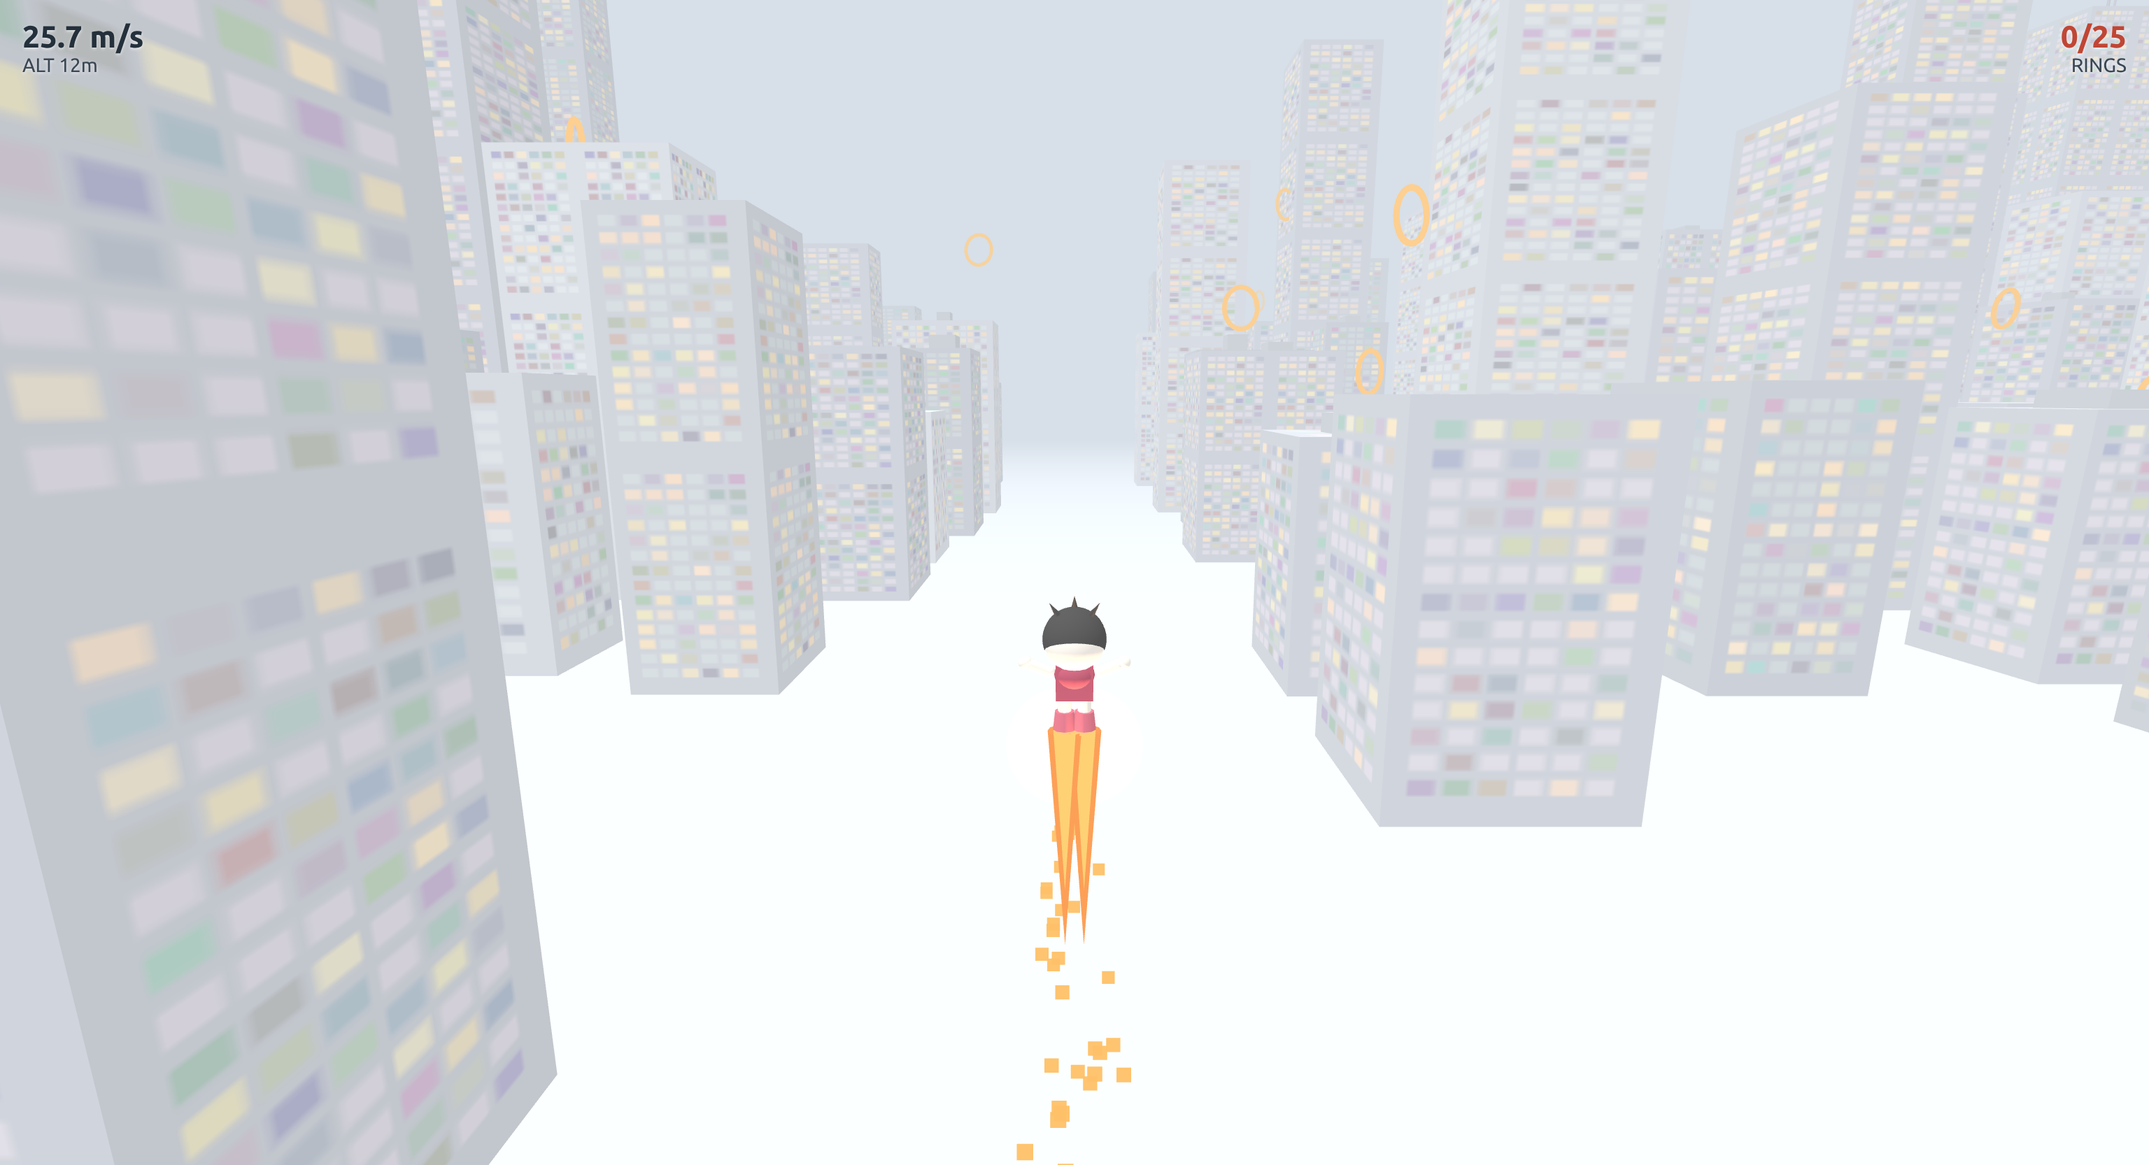
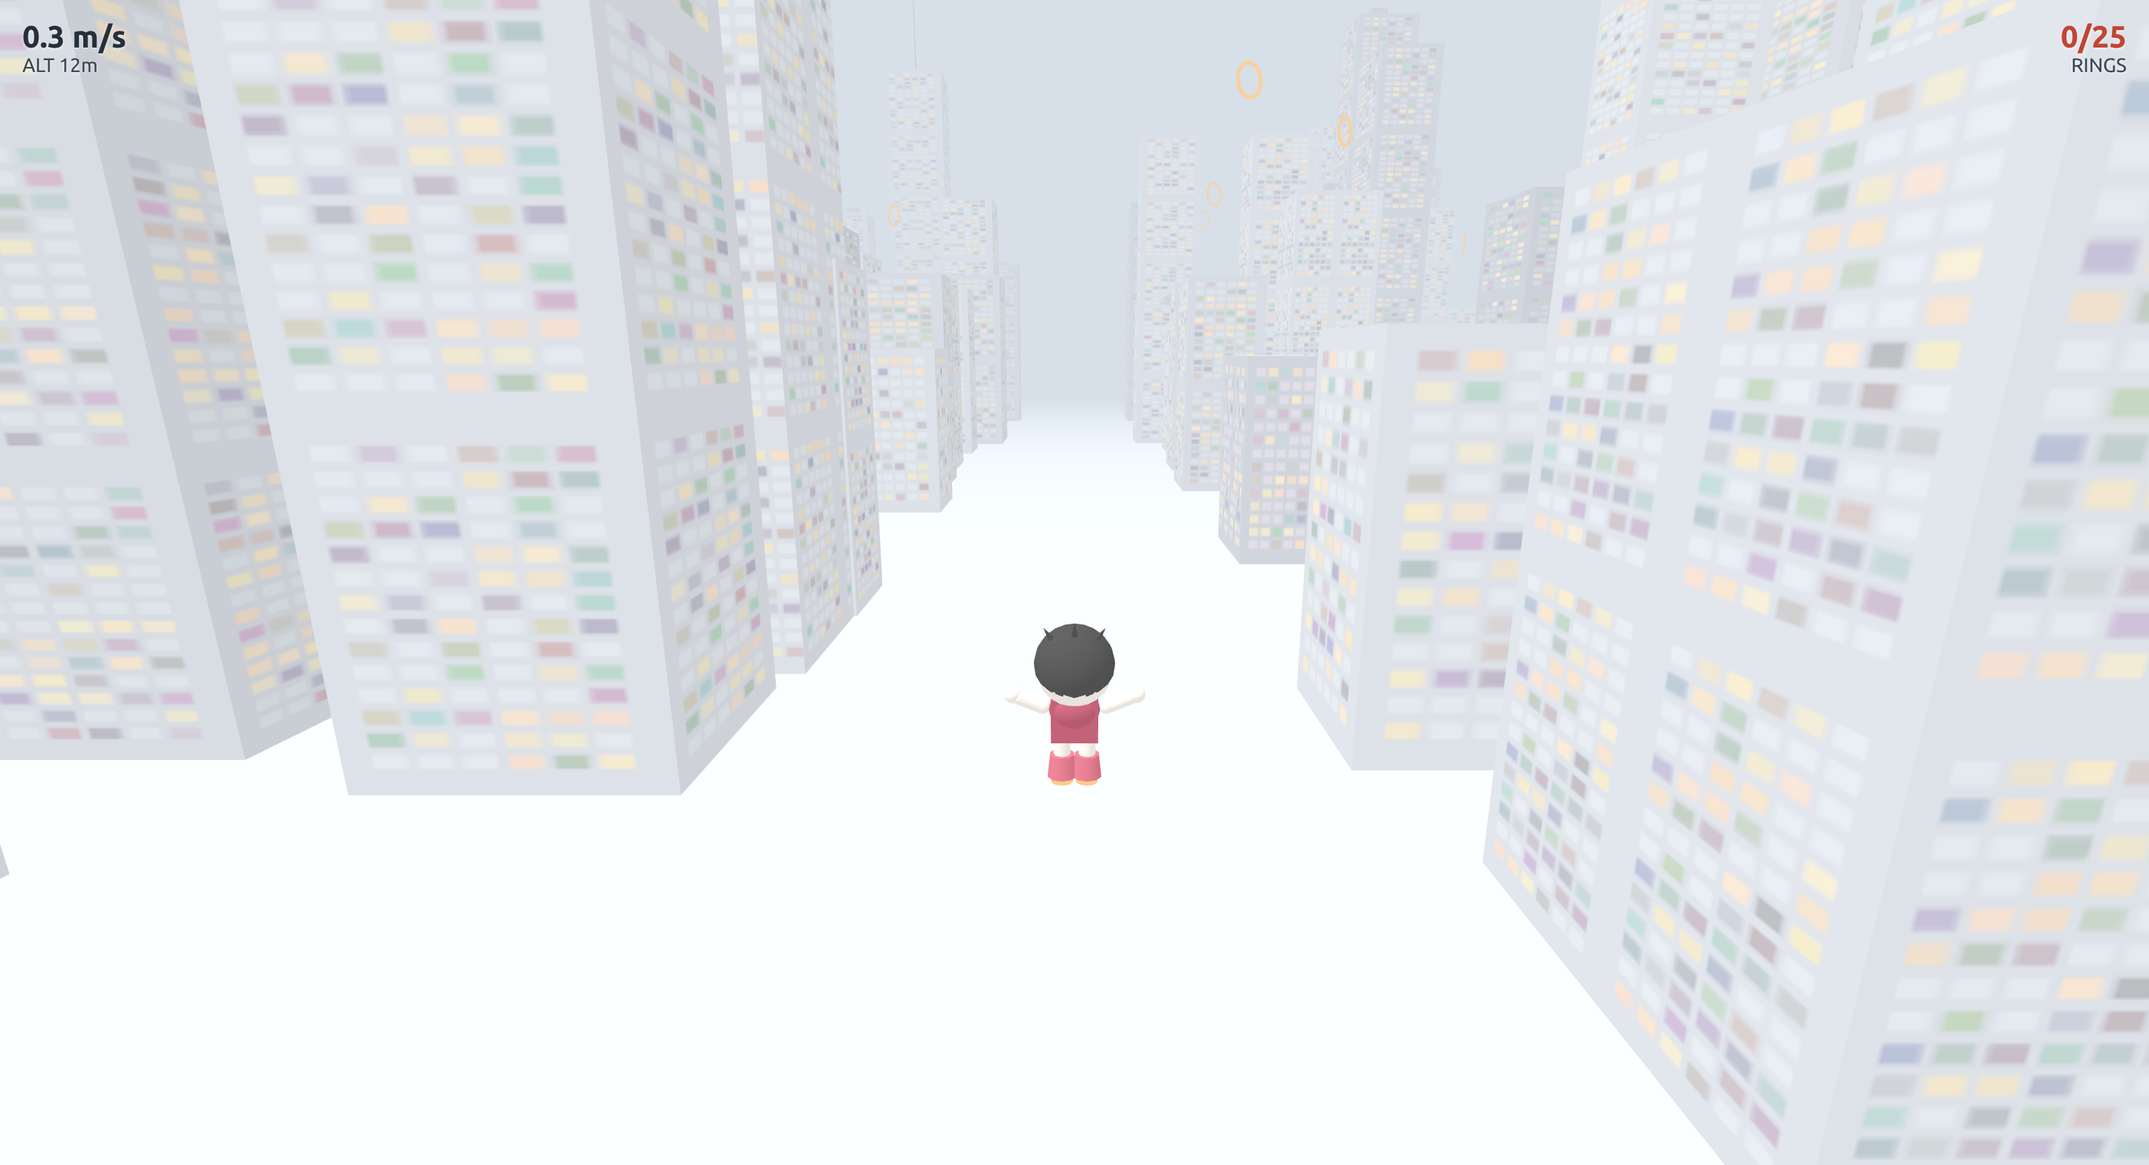
Movement feel: show character's back, velocity-based body lean, speed camera
- Flip character visually: face/eyes point along the nose, hair + spikes
  cover the top/back, so the trailing camera sees his back (geometry fix,
  flight physics untouched)
- New pose.js: forward lean with speed (~15 deg cruise, ~34 deg boost),
  gentle lean-back when reversing, subtle pitch on climb/descent, banking
  unchanged; extracted out of physics.js which now only owns flight state
- Camera: pull-back distance + FOV widen with speed for sense of speed
- New marker.js: FWD/BACK orientation labels, T toggles, off by default
- README: T key, new feel features, 13-module tree; new README
  screenshots from the real trailing camera
- tools: cdp_helper.py gains purge(); add _readme_shots.py README shot tool

diff --git a/js/player.js b/js/player.js
@@ -15,21 +15,29 @@ torso.position.y=0.62; tilt.add(torso);
 const chest=new THREE.Mesh(new THREE.SphereGeometry(0.27,12,10), mat(MAROON));
 chest.position.set(0,0.72,0.05); chest.scale.set(1.05,0.8,0.8); tilt.add(chest);
 
-// head
+// head — the face (eyes/mouth) points along the nose (local -Z, the travel
+// direction), so the trailing chase camera (behind/above, +Z) reads the
+// character's hair and spikes, while the face looks out into the screen.
 const head=new THREE.Group(); head.position.y=1.18; tilt.add(head);
 const face=new THREE.Mesh(new THREE.SphereGeometry(0.42,20,16), mat(CREAM)); head.add(face);
-// hair dome (back/top)
-const hair=new THREE.Mesh(new THREE.SphereGeometry(0.445,20,14,0,Math.PI*2,0,Math.PI*0.62), mat(BLACK));
-hair.rotation.x=-0.5; hair.position.y=0.04; head.add(hair);
-// signature spikes — big, pointing up/back (read from behind)
+// hair — covers the TOP + BACK of the head so the back reads as a dark hair
+// dome (not a face!) from the trailing camera, leaving the face open on the
+// front (-Z). Tilted toward the back (+Z); cap reaches ~125° down the back,
+// hairline crosses the front at ~60° (eyes at ~87° stay clear).
+const hair=new THREE.Mesh(new THREE.SphereGeometry(0.445,20,14,0,Math.PI*2,0,Math.PI*0.52), mat(BLACK));
+hair.rotation.x=0.55; hair.position.y=0.05; head.add(hair);
+// signature spikes — on the BACK-top of the head, pointing up/back (read from behind)
 const spikeGeo=new THREE.ConeGeometry(0.115,0.55,8);
-const s1=new THREE.Mesh(spikeGeo,mat(BLACK)); s1.position.set(0,0.42,-0.08); s1.rotation.x=0.5; head.add(s1);
-const s2=new THREE.Mesh(spikeGeo,mat(BLACK)); s2.position.set(0.2,0.36,0.08); s2.rotation.set(0.3,0,-0.55); head.add(s2);
-const s3=new THREE.Mesh(spikeGeo,mat(BLACK)); s3.position.set(-0.2,0.36,0.08); s3.rotation.set(0.3,0,0.55); head.add(s3);
+const s1=new THREE.Mesh(spikeGeo,mat(BLACK)); s1.position.set(0,0.36,0.16); s1.rotation.x=0.5; head.add(s1);
+const s2=new THREE.Mesh(spikeGeo,mat(BLACK)); s2.position.set(0.2,0.30,0.10); s2.rotation.set(0.4,0,-0.5); head.add(s2);
+const s3=new THREE.Mesh(spikeGeo,mat(BLACK)); s3.position.set(-0.2,0.30,0.10); s3.rotation.set(0.4,0,0.5); head.add(s3);
 // eyes
 const eyeGeo=new THREE.SphereGeometry(0.055,10,8);
 const e1=new THREE.Mesh(eyeGeo,mat(BLACK)); e1.position.set(0.15,0.02,-0.37); head.add(e1);
 const e2=new THREE.Mesh(eyeGeo,mat(BLACK)); e2.position.set(-0.15,0.02,-0.37); head.add(e2);
+// mouth — small dark line so the face side is unmistakable
+const mouth=new THREE.Mesh(new THREE.BoxGeometry(0.14,0.035,0.02), mat(BLACK));
+mouth.position.set(0,-0.13,-0.40); head.add(mouth);
 
 // arms — spread for flight
 function arm(side){

diff --git a/js/camera.js b/js/camera.js
@@ -3,11 +3,12 @@
 // camera.js — trailing chase camera.
 //
 // Sits BEHIND the ship along its heading and looks a little ahead of it, so
-// the ship always faces AWAY from the camera. Pressing W flies you "into" the
-// screen (forward), matching the reference third-person feel. The camera
-// heading lags slightly behind the ship's yaw so it trails on hard turns, and
-// the position is smoothed so it follows rather than snapping. Buildings
-// still get respected via collideCamera.
+// pressing W flies "into" the screen (forward, along the nose), matching the
+// reference third-person feel. The camera heading lags slightly behind the
+// ship's yaw so it trails on hard turns, and the position is smoothed so it
+// follows rather than snapping. With speed, the camera pulls back a little
+// and the FOV widens slightly for a sense of speed. Buildings are still
+// respected via collideCamera.
 // ---------------------------------------------------------------------------
 
 const _camPos  = new THREE.Vector3();
@@ -15,17 +16,21 @@ const _camLook = new THREE.Vector3();
 let camHeading = 0;   // smoothed heading the camera follows (lags behind yaw)
 
 function updateCamera(dt, p){
+  const s = vel.length();
+
   // camera trails the ship's heading (a little lag on turns)
   camHeading = lerpAngle(camHeading, yaw, 1 - Math.pow(CAM_HEADING_LAG, dt));
 
-  const c = Math.cos(camPitch), s = Math.sin(camPitch);
+  // pull back a bit at speed so the character stays framed
+  const dist = camDist + Math.min(CAM_SPEED_DZ_MAX, s*CAM_SPEED_DZ);
+  const c = Math.cos(camPitch), sinP = Math.sin(camPitch);
 
   // position: BEHIND the ship (opposite of its nose) + above
   // nose = (-sin(yaw), -cos(yaw))  =>  behind = (+sin, +cos)
   _camPos.set(
-    p.x + Math.sin(camHeading)*c*camDist,
-    p.y + s*camDist + CAM_LOOK_UP,
-    p.z + Math.cos(camHeading)*c*camDist
+    p.x + Math.sin(camHeading)*c*dist,
+    p.y + sinP*dist + CAM_LOOK_UP,
+    p.z + Math.cos(camHeading)*c*dist
   );
   collideCamera(_camPos);
 
@@ -39,4 +44,11 @@ function updateCamera(dt, p){
 
   camera.position.lerp(_camPos, 1 - Math.pow(CAM_FOLLOW, dt));
   camera.lookAt(_camLook);
+
+  // subtle speed-warp: widen the FOV with speed, smoothed
+  const targetFov = Math.min(CAM_FOV_MAX, CAM_FOV_BASE + s*CAM_FOV_SPEED);
+  if(Math.abs(camera.fov - targetFov) > 0.01){
+    camera.fov = THREE.MathUtils.lerp(camera.fov, targetFov, 0.08);
+    camera.updateProjectionMatrix();
+  }
 }

diff --git a/js/pose.js b/js/pose.js
@@ -1,0 +1,39 @@
+'use strict';
+// ---------------------------------------------------------------------------
+// pose.js — the character's per-frame flight pose (pitch + roll), derived from
+// the flight state so the body reads the way it's actually moving:
+//
+//   • leans forward (nose-down) in proportion to forward speed — extra when
+//     boosting (the reference shows a ~20–35° dive at full burn)
+//   • gentle lean-back when flying backwards (S)
+//   • subtle nose-up / nose-down while ascending / descending
+//   • banks into turns (roll), matching the existing feel
+//
+// Purely cosmetic: it only writes to `tilt.rotation` — never to `vel` or
+// `yaw` — so it cannot change the movement.
+// ---------------------------------------------------------------------------
+
+function applyPose(dt, f){
+  const fwd = -Math.sin(yaw)*vel.x - Math.cos(yaw)*vel.z; // + = forward along nose
+
+  // forward lean, scaled by forward speed; boost multiplies it.
+  // clamp so a full reverse reads as a moderate lean-back, not a flip.
+  const fr = Math.max(-0.8, Math.min(1, fwd / MAX_SPEED_CRUISE));
+  const lean = (f.boost ? BOOST_LEAN : LEAN) * fr;
+
+  // vertical tilt from vertical velocity (subtle, clamped)
+  const vPitch = Math.max(-0.45, Math.min(0.6, vel.y*0.035));
+
+  // forward speed -> nose DOWN (-rotation.x); climbing -> nose UP (+rotation.x)
+  const targetPitch = -lean + vPitch;
+
+  // bank into the turn — keep the EXACT sign/amount the approved build had
+  // (A = roll one way, D = the other; magnitude 0.55)
+  const turn = (keys['KeyA']?1:0) + (keys['KeyD']?-1:0);
+  const targetRoll = turn * -0.55;
+
+  // frame-rate-independent smoothing (~10% per frame at 60 fps)
+  const t = 1 - Math.pow(0.001, dt);
+  tilt.rotation.x = THREE.MathUtils.lerp(tilt.rotation.x, targetPitch, t);
+  tilt.rotation.z = THREE.MathUtils.lerp(tilt.rotation.z, targetRoll, t);
+}

diff --git a/js/marker.js b/js/marker.js
@@ -1,0 +1,37 @@
+'use strict';
+// ---------------------------------------------------------------------------
+// marker.js — floating "FWD" / "BACK" labels so it's obvious which way the
+// character is facing (and which way is travel direction). Toggle with T.
+// Both labels are camera-facing sprites flanking the head: FWD ahead of the
+// face (nose side, -Z), BACK behind it (+Z, the chase-cam side).
+// ---------------------------------------------------------------------------
+
+function makeMarker(text){
+  const c = document.createElement('canvas'); c.width = 256; c.height = 128;
+  const g = c.getContext('2d');
+  g.font = 'bold 72px "Segoe UI", system-ui, sans-serif';
+  g.textAlign = 'center'; g.textBaseline = 'middle';
+  g.lineWidth = 14; g.strokeStyle = 'rgba(24,32,42,0.9)';
+  g.strokeText(text, 128, 64);
+  g.fillStyle = '#ffffff';
+  g.fillText(text, 128, 64);
+  const sp = new THREE.Sprite(new THREE.SpriteMaterial({
+    map: new THREE.CanvasTexture(c), transparent: true, opacity: 0.95, depthWrite: false }));
+  sp.scale.set(1.1, 0.55, 1);
+  return sp;
+}
+
+const fwdMarker  = makeMarker('FWD');
+fwdMarker.position.set(0, 2.0, -0.85);   // ahead of the face (nose side)
+const backMarker = makeMarker('BACK');
+backMarker.position.set(0, 2.0, 0.85);   // behind the head (camera side)
+tilt.add(fwdMarker); tilt.add(backMarker);
+
+let markersOn = false;   // dev aid — off by default, T toggles
+let _prevT = false;
+function updateMarkers(){
+  const down = !!keys['KeyT'];
+  if(down && !_prevT) markersOn = !markersOn;   // toggle on T key-down
+  _prevT = down;
+  fwdMarker.visible = backMarker.visible = markersOn;
+}

diff --git a/js/physics.js b/js/physics.js
@@ -76,10 +76,8 @@ function updateFlight(dt, keys){
   vel.z += hz*az*accel*dt;
   vel.y += ay * VERT * (boost?1.6:1) * dt;
 
-  // yaw turn + bank into the turn
+  // yaw turn (bank + forward-lean pose live in pose.js)
   yaw += turn * (boost?2.6:2.0) * dt;
-  const targetRoll = turn * -0.55; // D = right bank
-  tilt.rotation.z = THREE.MathUtils.lerp(tilt.rotation.z, targetRoll, 0.1);
 
   // drag + speed cap
   vel.multiplyScalar(Math.pow(DRAG_BASE, dt));
@@ -94,10 +92,10 @@ function updateFlight(dt, keys){
   astro.position.y = Math.max(WORLD_Y_MIN, Math.min(WORLD_Y_MAX, astro.position.y));
   collide(astro.position);
 
-  // orient: nose is authoritative; slight pitch from vertical speed
+  // orient: nose is authoritative; body pitch / bank pose in pose.js
   astro.rotation.y = yaw;
-  tilt.rotation.x = THREE.MathUtils.lerp(tilt.rotation.x,
-    Math.max(-0.45, Math.min(0.6, vel.y*0.035)), 0.12);
+  const sp = vel.length();
+  applyPose(dt, { thrust, speed: sp, boost });
 
-  return { thrust, speed: vel.length(), boost };
+  return { thrust, speed: sp, boost };
 }

diff --git a/js/config.js b/js/config.js
@@ -47,6 +47,15 @@ const CAM_LOOK_AHEAD_H = 3.0;      // look-at point ahead along heading
 const CAM_LOOK_UP_TGT  = 1.4;      // look-at height above player
 const CAM_FOLLOW       = 0.0006;   // camera position lerp base (1 - base^dt)
 const CAM_HEADING_LAG  = 0.014;    // camera heading lerp base (trail behind yaw)
+const CAM_SPEED_DZ     = 0.10;     // extra camera distance per m/s (pull back at speed)
+const CAM_SPEED_DZ_MAX = 6;        // cap on that extra distance
+const CAM_FOV_BASE     = 65;       // base field of view
+const CAM_FOV_SPEED    = 0.35;     // extra degrees per m/s (sense of speed)
+const CAM_FOV_MAX      = 82;       // cap on the widened fov
+
+// ---- body pose (lean) ----
+const LEAN       = 0.34;   // forward pitch at full cruise speed (rad, ≈19°)
+const BOOST_LEAN = 0.60;   // forward pitch at full cruise speed while boosting (≈34°)
 
 // ---- effects ----
 const SPARKS = 70;                 // spark-trail particle pool

diff --git a/index.html b/index.html
@@ -39,6 +39,7 @@
     <b>A / D</b><span>turn left / right (banks)</span>
     <b>R / F</b><span>ascend / descend</span>
     <b>SHIFT</b><span>boost</span>
+    <b>T</b><span>toggle FWD / BACK markers</span>
     <b>MOUSE</b><span>steer / look up &amp; down</span>
     <b>ESC</b><span>release mouse</span>
   </div>
@@ -49,6 +50,8 @@
 <script src="js/scene.js"></script>
 <script src="js/city.js"></script>
 <script src="js/player.js"></script>
+<script src="js/pose.js"></script>
+<script src="js/marker.js"></script>
 <script src="js/physics.js"></script>
 <script src="js/effects.js"></script>
 <script src="js/rings.js"></script>

diff --git a/js/scene.js b/js/scene.js
@@ -15,7 +15,7 @@ const scene = new THREE.Scene();
 scene.background = new THREE.Color(FOGCOL);
 scene.fog = new THREE.Fog(FOGCOL, FOG_NEAR, FOG_FAR);
 
-const camera = new THREE.PerspectiveCamera(65, innerWidth / innerHeight, 0.1, 900);
+const camera = new THREE.PerspectiveCamera(CAM_FOV_BASE, innerWidth / innerHeight, 0.1, 900);
 
 scene.add(new THREE.AmbientLight(0xffffff, 0.85));
 const sun = new THREE.DirectionalLight(0xffffff, 0.55);

diff --git a/js/main.js b/js/main.js
@@ -15,9 +15,10 @@ function animate(){
   // flight
   const flight = updateFlight(dt, keys);
 
-  // VFX
+  // VFX + pose markers
   updateFlames(t, flight.speed, flight.thrust, flight.boost);
   updateSparks(dt, flight.speed, flight.thrust);
+  updateMarkers();
 
   // rings + camera + HUD
   const p = astro.position;

diff --git a/tools/_readme_shots.py b/tools/_readme_shots.py
@@ -1,0 +1,48 @@
+#!/usr/bin/env python3
+# README screenshots from the real game + real trailing camera:
+#   docs/screenshots/gameplay-cruise.png  (~cruise speed, moderate lean)
+#   docs/screenshots/gameplay-boost.png   (full boost, max lean)
+import sys, time, os, subprocess, json
+sys.path.insert(0, os.path.dirname(__file__))
+import cdp_helper, websocket, urllib.request
+ROOT = os.path.dirname(os.path.dirname(os.path.abspath(__file__)))
+N = str(int(time.time()))
+URL = f"http://127.0.0.1:8000/index.html?v={N}"
+print("purged:", cdp_helper.purge())
+r = subprocess.run(["curl","-sS","-X","PUT",f"http://127.0.0.1:9222/json/new?{URL}"],capture_output=True,text=True)
+tid = json.loads(r.stdout)["id"]
+time.sleep(6)
+with urllib.request.urlopen("http://127.0.0.1:9222/json/version", timeout=5) as f:
+    bws = json.load(f)["webSocketDebuggerUrl"]
+_b = websocket.create_connection(bws, timeout=10)
+_b.send(json.dumps({"id":1,"method":"Target.activateTarget","params":{"targetId":tid}}))
+_b.recv(); _b.close()
+p = cdp_helper.Page(f"index.html?v={N}")
+print("boot:", p.js("({three:THREE.REVISION, bld:buildings.length, markers:markersOn})"))
+p.js("(()=>{ document.getElementById('overlay').style.display='none'; "
+     "document.getElementById('hint').style.display='none'; return 'hidden'; })()")
+
+def fly(boost, steps):
+    p.js(f"""(()=>{{
+      yaw=0; camHeading=0; vel.set(0,0,0); astro.position.set(0,14,80);
+      tilt.rotation.set(0,0,0); camPitch=0.34; camDist=10;
+      for(let i=0;i<{steps};i++){{
+        keys['KeyW']=true; keys['ShiftLeft']={'true' if boost else 'false'};
+        updateFlight(1/60, keys);
+        keys['KeyW']=false; keys['ShiftLeft']=false;
+        updateFlames(1, vel.length(), 1, {boost}); updateSparks(1/60, vel.length(), 1);
+        updateRings(1/60, astro.position); updateCamera(1/60, astro.position);
+        updateHUD(vel.length(), astro.position);
+      }}
+      for(let i=0;i<10;i++) updateCamera(1/60, astro.position);
+      renderer.render(scene, camera);
+      return {{ sp:vel.length().toFixed(1), lean:THREE.MathUtils.radToDeg(tilt.rotation.x).toFixed(1),
+                pos:astro.position.toArray().map(v=>v.toFixed(0)) }};
+    }})()""")
+    time.sleep(0.3)
+
+print("cruise:", fly(False, 150))
+p.screenshot(os.path.join(ROOT, "docs/screenshots/gameplay-cruise.png"))
+print("boost:", fly(True, 240))
+p.screenshot(os.path.join(ROOT, "docs/screenshots/gameplay-boost.png"))
+print("saved both")

diff --git a/tools/cdp_helper.py b/tools/cdp_helper.py
@@ -18,6 +18,29 @@ def find_page(substr, tid=None):
             return t
     return None
 
+def close_tab(tid):
+    # newer Chrome reads the id from the PATH, not the query string
+    try:
+        with urllib.request.urlopen(CDP + "/json/close/" + tid, timeout=6) as r:
+            r.read()
+            return True
+    except Exception:
+        return False
+
+def purge(substr="index.html"):
+    """Close every page whose url contains substr. Returns count closed."""
+    n = 0
+    for _ in range(6):
+        ps = [t for t in targets() if t.get("type") == "page" and substr in t.get("url", "")]
+        if not ps:
+            break
+        for t in ps:
+            if close_tab(t["id"]):
+                n += 1
+        import time as _t
+        _t.sleep(0.8)
+    return n
+
 class Page:
     def __init__(self, url_substr, tid=None):
         t = find_page(url_substr, tid)

diff --git a/README.md b/README.md
@@ -27,6 +27,7 @@ Open `index.html` in any modern browser (or just open this repo on
 | **SHIFT** | Boost |
 | **MOUSE** | Steer ship · look up/down (click the page to lock) |
 | **WHEEL** | Zoom camera in / out |
+| **T** | Toggle FWD / BACK orientation markers (dev aid) |
 | **ESC** | Release mouse |
 
 Fly through the foggy low-poly city and collect all **25 rings**.
@@ -39,8 +40,12 @@ Fly through the foggy low-poly city and collect all **25 rings**.
   window textures, rooftop clutter, antenna spires, and a central flight corridor
 - Flight model: mouse or A/D steering, heading-relative thrust, banked turns,
   vertical control, boost, drag and speed caps
+- Velocity-based body pose: leans forward with speed (extra while boosting),
+  leans back when flying backwards, subtle nose-up/down on climb/descend,
+  and banks into turns — matching the reference's diving feel
 - Trailing chase camera that follows the ship's heading (pointer-lock, zoom,
-  building collision) — W always flies you "into the screen"
+  building collision) — W always flies you "into the screen"; it pulls back
+  and the FOV widens slightly with speed for a stronger sense of velocity
 - Building + ground collision, ring collection with HUD (speed / altitude / rings)
 
 ## Repo layout
@@ -52,11 +57,13 @@ js/
   scene.js              # renderer, scene, fog, lights, ground
   city.js               # procedural city + window textures
   player.js             # chibi astro-boy, flames, glow, spark trail
+  pose.js               # per-frame body pose (forward lean, bank, climb tilt)
+  marker.js             # FWD / BACK orientation markers (T to toggle, dev aid)
   physics.js            # flight model + collision
   effects.js            # flame / glow / spark VFX updates
   rings.js              # collectible rings
   input.js              # keyboard + pointer-lock mouse steering, wheel zoom
-  camera.js             # trailing chase camera
+  camera.js             # trailing chase camera (speed pullback + FOV warp)
   hud.js                # speed / altitude / ring HUD
   main.js               # game loop + resize
 lib/three.min.js        # vendored three.js r149
